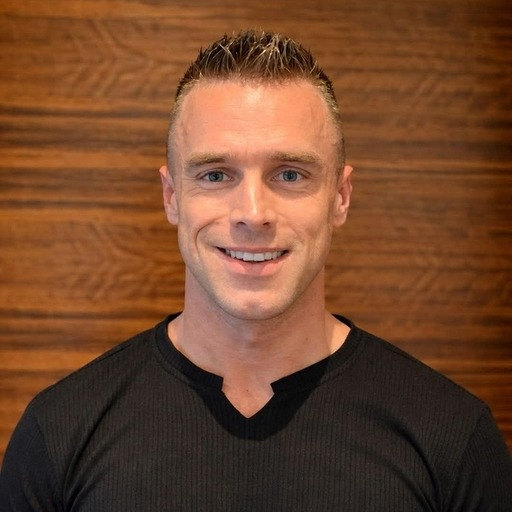
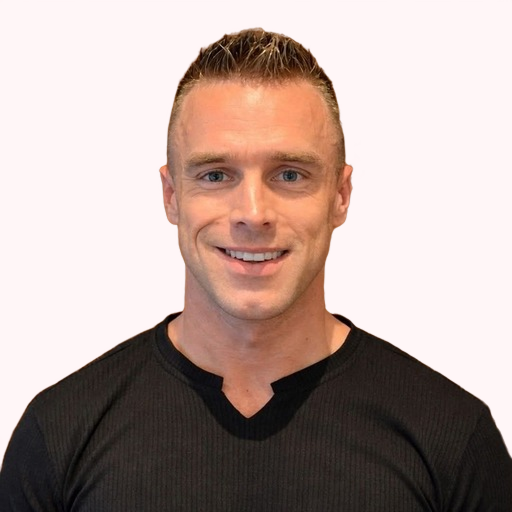
Improve About founders cards with read-bio dialog and balanced copy.
Keep founder cards equal height with short summaries, open full bios in a modal, update Enyo’s tagline, and refresh founder photos.

diff --git a/website/components/marketing/founders-section.tsx b/website/components/marketing/founders-section.tsx
@@ -1,9 +1,11 @@
 "use client"
 
+import { useEffect, useLayoutEffect, useId, useState } from "react"
+import { createPortal } from "react-dom"
 import Image from "next/image"
-import { Linkedin } from "lucide-react"
+import { Linkedin, X } from "lucide-react"
 import type { Founder } from "@/lib/marketing/types"
-import { MARKETING_HEADING_CAPS, MARKETING_SECTION_TITLE } from "@/lib/marketing/layout-constants"
+import { MARKETING_DISPLAY_TITLE, MARKETING_HEADING_CAPS, MARKETING_SECTION_TITLE } from "@/lib/marketing/layout-constants"
 import { cn } from "@/lib/utils"
 
 interface FoundersSectionProps {
@@ -20,10 +22,136 @@ function XIcon({ className }: { className?: string }) {
   )
 }
 
-function FounderCard({ founder }: { founder: Founder }) {
+function SocialLinks({ founder, className }: { founder: Founder; className?: string }) {
+  return (
+    <div className={cn("flex min-h-10 items-center gap-3", className)}>
+      <a
+        href={founder.linkedin}
+        target="_blank"
+        rel="noopener noreferrer"
+        className="inline-flex h-10 w-10 items-center justify-center rounded-full border border-[#E4DED1] bg-white text-[#3D443E] transition-colors hover:border-[#007ACC]/40 hover:text-[#007ACC]"
+        aria-label={`${founder.name} on LinkedIn`}
+      >
+        <Linkedin className="h-4 w-4" />
+      </a>
+      {founder.x ? (
+        <a
+          href={founder.x}
+          target="_blank"
+          rel="noopener noreferrer"
+          className="inline-flex h-10 w-10 items-center justify-center rounded-full border border-[#E4DED1] bg-white text-[#3D443E] transition-colors hover:border-[#007ACC]/40 hover:text-[#007ACC]"
+          aria-label={`${founder.name} on X`}
+        >
+          <XIcon className="h-4 w-4" />
+        </a>
+      ) : (
+        <span className="inline-flex h-10 w-10" aria-hidden="true" />
+      )}
+    </div>
+  )
+}
+
+function FounderBioDialog({
+  founder,
+  open,
+  onOpenChange,
+}: {
+  founder: Founder | null
+  open: boolean
+  onOpenChange: (open: boolean) => void
+}) {
+  const titleId = useId()
+
+  useLayoutEffect(() => {
+    if (!open) return
+
+    const scrollbarWidth = window.innerWidth - document.documentElement.clientWidth
+    const { body, documentElement: html } = document
+    const prevBodyOverflow = body.style.overflow
+    const prevBodyPaddingRight = body.style.paddingRight
+    const prevHtmlOverflow = html.style.overflow
+
+    html.style.overflow = "hidden"
+    body.style.overflow = "hidden"
+    if (scrollbarWidth > 0) {
+      body.style.paddingRight = `${scrollbarWidth}px`
+    }
+
+    return () => {
+      html.style.overflow = prevHtmlOverflow
+      body.style.overflow = prevBodyOverflow
+      body.style.paddingRight = prevBodyPaddingRight
+    }
+  }, [open])
+
+  useEffect(() => {
+    if (!open) return
+
+    const onKeyDown = (event: KeyboardEvent) => {
+      if (event.key === "Escape") onOpenChange(false)
+    }
+
+    window.addEventListener("keydown", onKeyDown)
+    return () => window.removeEventListener("keydown", onKeyDown)
+  }, [open, onOpenChange])
+
+  if (!open || !founder) return null
+  if (typeof document === "undefined") return null
+
+  return createPortal(
+    <div className="fixed inset-0 z-[200] flex items-center justify-center p-4 pb-[max(1rem,env(safe-area-inset-bottom))] pt-[max(1rem,env(safe-area-inset-top))]">
+      <button
+        type="button"
+        aria-label="Close dialog"
+        className="absolute inset-0 bg-[#0F1110]/45 backdrop-blur-[2px]"
+        onClick={() => onOpenChange(false)}
+      />
+      <div
+        role="dialog"
+        aria-modal="true"
+        aria-labelledby={titleId}
+        className="relative z-10 flex max-h-[calc(100dvh-2rem-env(safe-area-inset-top)-env(safe-area-inset-bottom))] w-full max-w-xl flex-col overflow-hidden rounded-[1.25rem] border border-[#E4DED1] bg-white shadow-[0_24px_90px_rgba(15,17,16,0.18)] sm:max-h-[min(720px,calc(100dvh-2rem))] sm:rounded-[1.75rem]"
+      >
+        <div className="flex shrink-0 items-start justify-between gap-3 border-b border-[#E4DED1] px-5 py-4 sm:px-7 sm:py-5">
+          <div className="min-w-0 flex-1">
+            <h2
+              id={titleId}
+              className={cn("font-unbounded font-bold text-[#0F1110]", MARKETING_DISPLAY_TITLE, MARKETING_HEADING_CAPS)}
+            >
+              {founder.name}
+            </h2>
+            <p className="mt-1 text-sm font-medium text-[#6F756F]">{founder.title}</p>
+            <p className="mt-2 text-sm font-semibold leading-6 text-[#007ACC]">{founder.tagline}</p>
+          </div>
+          <button
+            type="button"
+            aria-label="Close"
+            onClick={() => onOpenChange(false)}
+            className="shrink-0 rounded-full border border-[#E4DED1] p-2 text-[#5F665F] transition-colors hover:bg-[#F8F6F0] hover:text-[#0F1110]"
+          >
+            <X className="h-4 w-4" />
+          </button>
+        </div>
+        <div className="min-h-0 flex-1 overflow-y-auto overscroll-contain px-5 py-5 sm:px-7 sm:py-6">
+          <div className="space-y-4">
+            {founder.bio.map((paragraph) => (
+              <p key={paragraph.slice(0, 48)} className="text-sm leading-7 text-[#5F665F] sm:text-[0.9375rem] sm:leading-8">
+                {paragraph}
+              </p>
+            ))}
+          </div>
+          <SocialLinks founder={founder} className="mt-7" />
+        </div>
+      </div>
+    </div>,
+    document.body
+  )
+}
+
+function FounderCard({ founder, onReadBio }: { founder: Founder; onReadBio: () => void }) {
   return (
     <article className="group flex h-full flex-col overflow-hidden rounded-[1.5rem] border border-[#E4DED1] bg-[#F8F6F0] shadow-[0_12px_35px_rgba(15,17,16,0.05)] transition-all hover:-translate-y-1 hover:border-[#007ACC]/30 hover:shadow-[0_20px_55px_rgba(15,17,16,0.09)] sm:rounded-[1.75rem]">
-      <div className="relative aspect-square w-full overflow-hidden border-b border-[#E4DED1] bg-[#EDE8DC]">
+      <div className="relative aspect-square w-full shrink-0 overflow-hidden border-b border-[#E4DED1] bg-[#EDE8DC]">
         <Image
           src={founder.image}
           alt={`${founder.name}, ${founder.title}`}
@@ -38,35 +166,17 @@ function FounderCard({ founder }: { founder: Founder }) {
           {founder.name}
         </h3>
         <p className="mt-1 text-sm font-medium text-[#6F756F]">{founder.title}</p>
-        <p className="mt-3 text-sm font-semibold leading-6 text-[#007ACC]">{founder.tagline}</p>
-        <div className="mt-4 space-y-3">
-          {founder.bio.map((paragraph) => (
-            <p key={paragraph.slice(0, 48)} className="text-sm leading-7 text-[#5F665F]">
-              {paragraph}
-            </p>
-          ))}
-        </div>
-        <div className="mt-6 flex items-center gap-3">
-          <a
-            href={founder.linkedin}
-            target="_blank"
-            rel="noopener noreferrer"
-            className="inline-flex h-10 w-10 items-center justify-center rounded-full border border-[#E4DED1] bg-white text-[#3D443E] transition-colors hover:border-[#007ACC]/40 hover:text-[#007ACC]"
-            aria-label={`${founder.name} on LinkedIn`}
+        <p className="mt-3 min-h-[3rem] text-sm font-semibold leading-6 text-[#007ACC]">{founder.tagline}</p>
+        <p className="mt-4 line-clamp-3 min-h-[5.25rem] text-sm leading-7 text-[#5F665F]">{founder.summary}</p>
+        <div className="mt-auto flex items-center justify-between gap-3 pt-6">
+          <button
+            type="button"
+            onClick={onReadBio}
+            className="text-sm font-semibold text-[#007ACC] transition-colors hover:text-[#0062A3] hover:underline"
           >
-            <Linkedin className="h-4 w-4" />
-          </a>
-          {founder.x && (
-            <a
-              href={founder.x}
-              target="_blank"
-              rel="noopener noreferrer"
-              className="inline-flex h-10 w-10 items-center justify-center rounded-full border border-[#E4DED1] bg-white text-[#3D443E] transition-colors hover:border-[#007ACC]/40 hover:text-[#007ACC]"
-              aria-label={`${founder.name} on X`}
-            >
-              <XIcon className="h-4 w-4" />
-            </a>
-          )}
+            Read bio
+          </button>
+          <SocialLinks founder={founder} />
         </div>
       </div>
     </article>
@@ -74,6 +184,8 @@ function FounderCard({ founder }: { founder: Founder }) {
 }
 
 export function FoundersSection({ headline, subhead, founders }: FoundersSectionProps) {
+  const [activeFounder, setActiveFounder] = useState<Founder | null>(null)
+
   return (
     <section className="bg-[#F6F3EB] pb-14 pt-7 md:pb-24 md:pt-12">
       <div className="mx-auto max-w-7xl px-4 sm:px-6 lg:px-8">
@@ -85,12 +197,23 @@ export function FoundersSection({ headline, subhead, founders }: FoundersSection
             {subhead}
           </p>
         </div>
-        <div className="mx-auto grid max-w-5xl grid-cols-1 gap-6 lg:grid-cols-2 lg:gap-8">
+        <div className="mx-auto grid max-w-5xl grid-cols-1 items-stretch gap-6 lg:grid-cols-2 lg:gap-8">
           {founders.map((founder) => (
-            <FounderCard key={founder.name} founder={founder} />
+            <FounderCard
+              key={founder.name}
+              founder={founder}
+              onReadBio={() => setActiveFounder(founder)}
+            />
           ))}
         </div>
       </div>
+      <FounderBioDialog
+        founder={activeFounder}
+        open={!!activeFounder}
+        onOpenChange={(open) => {
+          if (!open) setActiveFounder(null)
+        }}
+      />
     </section>
   )
 }

diff --git a/website/lib/marketing/content/about.ts b/website/lib/marketing/content/about.ts
@@ -65,6 +65,8 @@ export const aboutFounders: Founder[] = [
     name: "Christian Levan",
     title: "Co-founder & CEO",
     tagline: "Making global money work locally in the Global South.",
+    summary:
+      "Focused on the last mile of global money – turning a digital dollar into real local financial utility across emerging markets.",
     bio: [
       "Christian is Co-founder and CEO of Easner, building stablecoin-powered banking and payment infrastructure for emerging and underserved markets – compliant onboarding, fiat and stablecoin conversion, cross-border payments, and local payout rails. His focus is the last mile: turning a digital dollar into real local financial utility.",
       "Before Easner, he drove growth at venture-backed and private-market companies, with earlier grounding as a financial advisor at Morgan Stanley and Merrill Lynch. He also serves as an enlisted Reconnaissance Marine in the U.S. Marine Corps Reserve – bringing discipline, discretion, and outcomes-over-narrative to how Easner is built.",
@@ -75,11 +77,12 @@ export const aboutFounders: Founder[] = [
   {
     name: "Enyo Sam",
     title: "Founder & CTO",
-    tagline: "Building secure financial infrastructure that makes stablecoins practical.",
+    tagline: "Building secure financial infrastructure with stablecoins",
+    summary:
+      "Leads product and technical vision – stablecoin infrastructure, engineering, and secure rails for compliant cross-border payments worldwide.",
     bio: [
-      "Enyo is Founder and CTO of Easner, a stablecoin-powered banking and payments platform expanding access to global financial services across emerging and underserved markets.",
-      "Since founding Easner in 2025, he has led technical architecture, stablecoin payment infrastructure, and partner integrations – validating market demand through early real-world payment flows. He focuses on product and technical vision, engineering leadership, security, and infrastructure for compliant, scalable cross-border payments.",
-      "His background spans International Management, Mathematics, Artificial Intelligence, and Computer Science.",
+      "Enyo is Founder and CTO of Easner, building stablecoin-powered banking and payment infrastructure for emerging and underserved markets – technical architecture, stablecoin settlement, partner integrations, and secure cross-border rails. His focus is making stablecoins practical: expanding access to global financial services without crypto complexity.",
+      "Since founding Easner in 2025, he has led product and technical vision, engineering leadership, security, and infrastructure for compliant, scalable payments – validating market demand through early real-world payment flows. His multidisciplinary background spans International Management, Mathematics, Artificial Intelligence, and Computer Science.",
     ],
     image: founderEnyoPhoto,
     linkedin: "https://www.linkedin.com/in/enyosam/",

diff --git a/website/lib/marketing/types.ts b/website/lib/marketing/types.ts
@@ -13,6 +13,9 @@ export interface Founder {
   name: string
   title: string
   tagline: string
+  /** Short blurb shown on the card (keep length matched across founders). */
+  summary: string
+  /** Full bio shown in the read-more dialog. */
   bio: string[]
   image: StaticImageData
   linkedin: string
